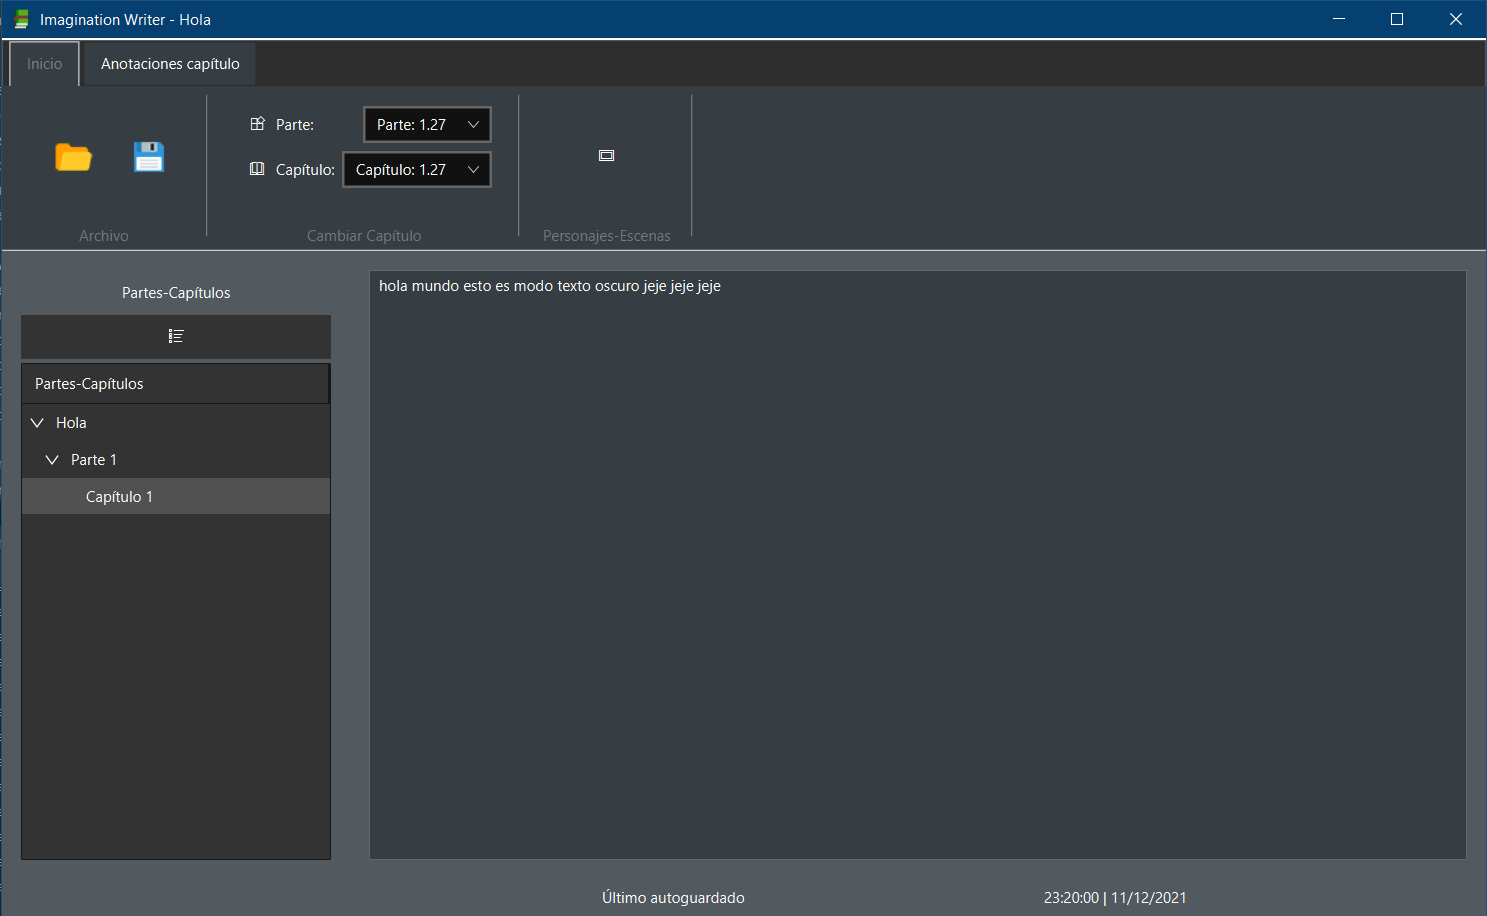
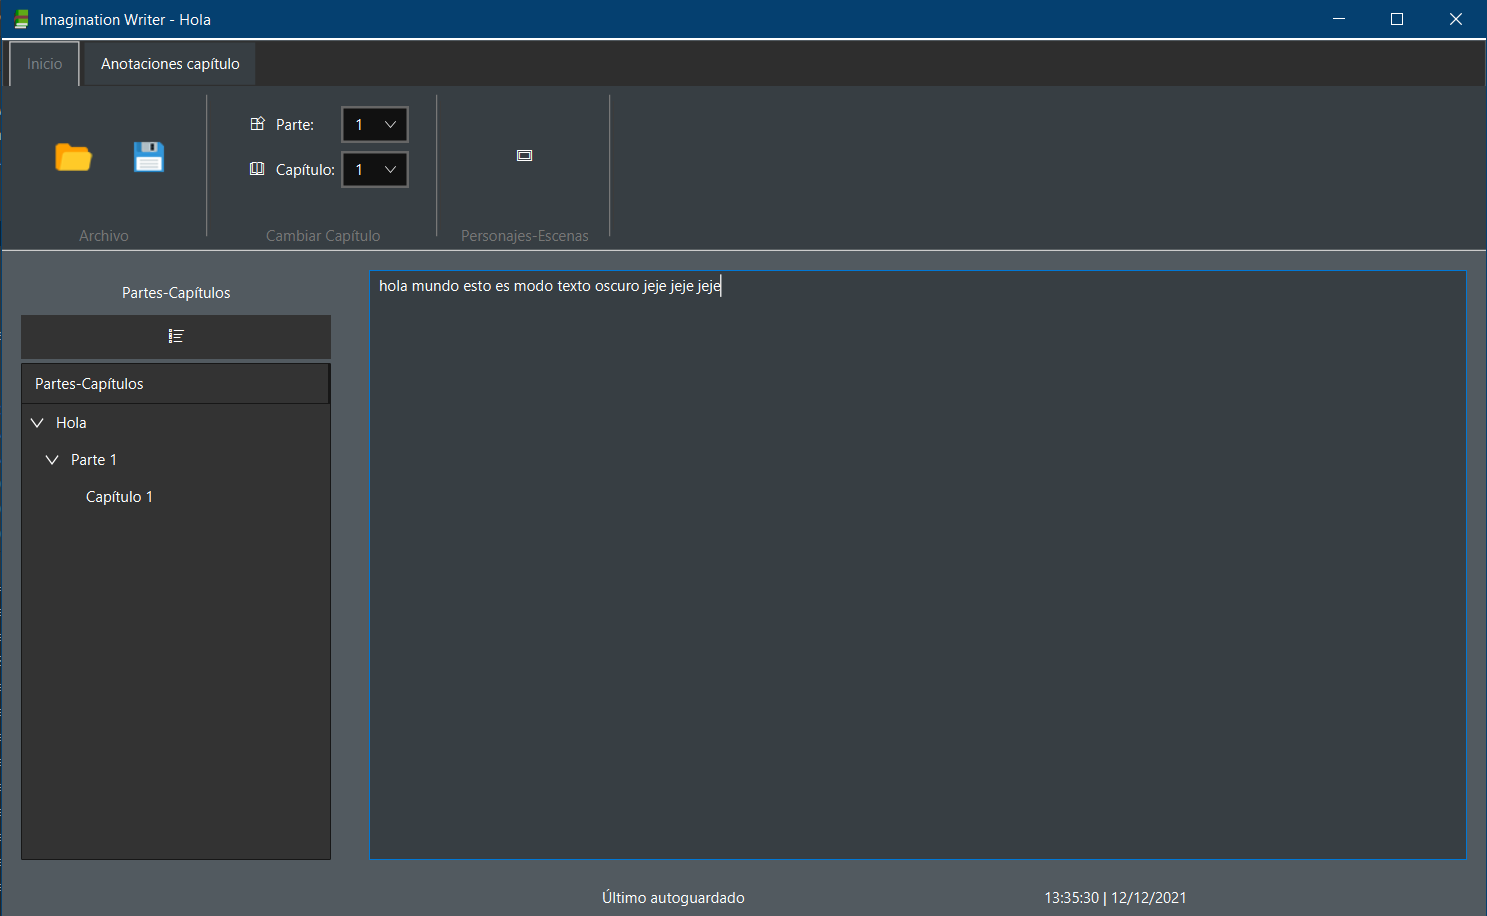
Añadida captura de Registrarse/Ver/Editar Perfil. Arreglos menores en la vista de Editar Libro. Diálogos ahora con interfaz Metro también. Ahora funciona completo el CRUD de partes y capítulos.

diff --git a/src/main/java/com/IW/controllers/BookPartsController.java b/src/main/java/com/IW/controllers/BookPartsController.java
@@ -3,8 +3,8 @@ package com.IW.controllers;
 import com.IW.interfaces.IBeans.IChapter;
 import com.IW.interfaces.IBeans.IPart;
 import com.IW.model.dao.BookDAO;
+import com.IW.model.dao.ChapterDAO;
 import com.IW.model.dao.PartDAO;
-import com.IW.model.objects.Part;
 import com.IW.utils.Dialog;
 import com.IW.utils.Tools;
 import javafx.beans.property.SimpleStringProperty;
@@ -40,6 +40,8 @@ public class BookPartsController {
     private Button btn_remove_chapter;
     private static BookDAO current_book;
     private static PartDAO current_part;
+    private static ChapterDAO current_chapter;
+
     //TODO todavía por terminar
     @FXML
     protected void initialize() {
@@ -70,18 +72,38 @@ public class BookPartsController {
             table_parts.getItems().remove(current_part);
         });
         btn_add_chapter.setOnAction(event -> {
-
+            if (current_part != null) {
+                ChapterDAO c = new ChapterDAO();
+                c.setNPage(Dialog.showDialogPart_Chapter("Nuevo capítulo", "", ""));
+                if (c.getNPage() != -1 && c.getNPage() != 0) {
+                    c.persist();
+                    current_part.getChapters().add(c);
+                    current_part.persist();
+                    current_book.persist();
+                    table_chapters.getItems().add(c);
+                }
+            } else {
+                Dialog.showWarning("¡Error!", "Selecciona una parte antes!", "No puedes añadir capítulos si no has seleccionado una parte antes previamente");
+            }
         });
         btn_edit_chapter.setOnAction(event -> {
-
+            current_chapter.setNPage(Dialog.showDialogPart_Chapter("Nuevo capítulo", "Introduce el número del nuevo capítulo", ""));
+            if (current_chapter.getNPage() != -1 && current_chapter.getNPage() != 0) {
+                table_chapters.getItems().remove(current_chapter);
+                current_chapter.persist();
+                current_book.persist();
+                table_chapters.getItems().add(current_chapter);
+            }
         });
         btn_remove_chapter.setOnAction(event -> {
-
+            current_chapter.remove();
+            table_chapters.getItems().remove(current_chapter);
         });
     }
 
     private void configureTables() {
-        tc_parts.setCellValueFactory(eachPart -> new SimpleStringProperty(eachPart.getValue().getNPart() + ""));
+        tc_parts.setCellValueFactory(eachPart -> new SimpleStringProperty("Capítulo: " + eachPart.getValue().getNPart()));
+        tc_chapters.setCellValueFactory(eachChapter -> new SimpleStringProperty("Parte: " + eachChapter.getValue().getNPage() + ""));
         table_parts.getSelectionModel().selectedItemProperty().addListener((observable, oldValue, newValue) -> {
             if (newValue != null) {
                 if (btn_add_chapter.isDisabled() && btn_edit_part.isDisabled() && btn_remove_part.isDisabled()) {
@@ -99,15 +121,15 @@ public class BookPartsController {
                     btn_edit_chapter.setDisable(false);
                     btn_remove_chapter.setDisable(false);
                 }
+                current_chapter = new ChapterDAO(newValue.getId());
             }
         });
-        tc_chapters.setCellValueFactory(eachChapter -> new SimpleStringProperty(eachChapter.getValue().getNPage() + ""));
     }
 
     public static void setCurrent_book(BookDAO book) {
         current_book = book;
         book.getParts().removeIf(Objects::isNull);
-        for(IPart p: book.getParts()){
+        for (IPart p : book.getParts()) {
             p.getChapters().removeIf(Objects::isNull);
         }
     }

diff --git a/src/main/java/com/IW/utils/Dialog.java b/src/main/java/com/IW/utils/Dialog.java
@@ -8,6 +8,8 @@ import javafx.print.PrinterJob;
 import javafx.scene.control.*;
 import javafx.scene.layout.GridPane;
 import javafx.stage.Stage;
+import jfxtras.styles.jmetro.JMetro;
+import jfxtras.styles.jmetro.Style;
 
 import java.util.Objects;
 import java.util.Optional;
@@ -35,6 +37,7 @@ public class Dialog {
     private static void showDialog(Alert.AlertType type, String title, String header, String description) {
         Alert alert = new Alert(type);
         Tools.addCssAndIcon((Stage) alert.getDialogPane().getScene().getWindow());
+        new JMetro(Style.DARK).setScene(alert.getDialogPane().getScene());
         alert.setTitle(title);
         alert.setHeaderText(header);
         alert.setContentText(description);
@@ -44,6 +47,7 @@ public class Dialog {
     private static boolean showDialogBoolean(String title, String header, String description) {
         Alert alert = new Alert(Alert.AlertType.CONFIRMATION);
         Tools.addCssAndIcon((Stage) alert.getDialogPane().getScene().getWindow());
+        new JMetro(Style.DARK).setScene(alert.getDialogPane().getScene());
         alert.setTitle(title);
         alert.setHeaderText(header);
         alert.setContentText(description);
@@ -62,6 +66,7 @@ public class Dialog {
     public static String showDialogString(String title, String header, String description) {
         TextInputDialog dialog = new TextInputDialog("");
         Tools.addCssAndIcon((Stage) dialog.getDialogPane().getScene().getWindow());
+        new JMetro(Style.DARK).setScene(dialog.getDialogPane().getScene());
         dialog.setTitle(title);
         dialog.setHeaderText(header);
         dialog.setContentText(description);
@@ -80,6 +85,7 @@ public class Dialog {
     public static int showDialogPart_Chapter(String title, String header, String description) {
         TextInputDialog dialog = new TextInputDialog();
         Tools.addCssAndIcon((Stage) dialog.getDialogPane().getScene().getWindow());
+        new JMetro(Style.DARK).setScene(dialog.getDialogPane().getScene());
         Tools.onlyDoubleValue(dialog.getEditor());
         dialog.setTitle(title);
         dialog.setHeaderText(header);
@@ -99,6 +105,7 @@ public class Dialog {
     public static String showDialogExamine(String title, String header, String description) {
         Alert dialog = new Alert(Alert.AlertType.CONFIRMATION);
         Tools.addCssAndIcon((Stage) dialog.getDialogPane().getScene().getWindow());
+        new JMetro(Style.DARK).setScene(dialog.getDialogPane().getScene());
         dialog.setTitle(title);
         dialog.setHeaderText(header);
         dialog.setContentText(description);
@@ -125,6 +132,7 @@ public class Dialog {
     public static void printDialog(IBook bookToPrint) {
         ChoiceDialog dialog = new ChoiceDialog(Printer.getDefaultPrinter(), Printer.getAllPrinters());
         Tools.addCssAndIcon((Stage) dialog.getDialogPane().getScene().getWindow());
+        new JMetro(Style.DARK).setScene(dialog.getDialogPane().getScene());
         dialog.setTitle("Selección de impresora");
         dialog.setHeaderText("Elige una impresora");
         dialog.setContentText("¡Elige una impresora que imprima en PDF!");

diff --git a/src/main/java/com/IW/controllers/EditorController.java b/src/main/java/com/IW/controllers/EditorController.java
@@ -15,11 +15,9 @@ import javafx.collections.FXCollections;
 import javafx.fxml.FXML;
 import javafx.scene.control.*;
 import javafx.stage.Stage;
-import javafx.util.StringConverter;
 
 import java.time.LocalDateTime;
 import java.time.format.DateTimeFormatter;
-import java.util.ArrayList;
 import java.util.Objects;
 import java.util.Timer;
 import java.util.TimerTask;
@@ -154,38 +152,6 @@ public class EditorController {
                 ta_note_chapter.setText(current_chapter.getNote());
                 ta_resume_chapter.setText(current_chapter.getResume());
                 ta_chapter.setText(current_chapter.getText());
-            }
-        });
-        cb_parts.setConverter(new StringConverter<>() {
-            @Override
-            public String toString(IPart object) {
-                return object == null ? null : object.toCombobox();
-            }
-
-            @Override
-            public IPart fromString(String string) {
-                IPart p = null;
-                if (string != null) {
-                    long id = Long.parseLong(string.substring(string.lastIndexOf(".")));
-                    p = new PartDAO(id);
-                }
-                return p;
-            }
-        });
-        cb_chapters.setConverter(new StringConverter<>() {
-            @Override
-            public String toString(IChapter object) {
-                return object == null ? null : object.toCombobox();
-            }
-
-            @Override
-            public IChapter fromString(String string) {
-                IChapter c = null;
-                if (string != null) {
-                    long id = Long.parseLong(string.substring(string.lastIndexOf(".")));
-                    c = new ChapterDAO(id);
-                }
-                return c;
             }
         });
     }

diff --git a/src/main/java/com/IW/controllers/BooksController.java b/src/main/java/com/IW/controllers/BooksController.java
@@ -8,6 +8,7 @@ import com.IW.model.dao.BookDAO;
 import com.IW.utils.Dialog;
 import com.IW.utils.PersistenceUnit;
 import com.IW.utils.Tools;
+import javafx.application.Platform;
 import javafx.beans.property.SimpleStringProperty;
 import javafx.collections.FXCollections;
 import javafx.event.ActionEvent;
@@ -166,6 +167,7 @@ public class BooksController {
                 Dialog.printDialog(table_books.getSelectionModel().getSelectedItem());
             }
         });
+        Platform.runLater(() -> btn_print.getScene().getWindow().setOnCloseRequest(event -> mi_close_session.fire()));
         configureTableColumns();
         addTableBookButtons();
         setIcons();

diff --git a/src/main/java/com/IW/interfaces/IBeans.java b/src/main/java/com/IW/interfaces/IBeans.java
@@ -53,7 +53,6 @@ public interface IBeans {
         String getResume();
         String getNote();
         String getText();
-        String toCombobox();
     }
 
     interface ICharacter{
@@ -94,6 +93,5 @@ public interface IBeans {
         int getNPart();
         List<IChapter> getChapters();
         IBook getBook();
-        String toCombobox();
     }
 }

diff --git a/src/main/java/com/IW/model/objects/Chapter.java b/src/main/java/com/IW/model/objects/Chapter.java
@@ -102,8 +102,8 @@ public class Chapter implements Serializable, IChapter {
     }
 
     @Override
-    public String toCombobox() {
-        return "Capítulo: " + this.nPage + "." + this.id;
+    public String toString() {
+        return this.nPage+"";
     }
 
     @Override

diff --git a/src/main/java/com/IW/model/objects/Part.java b/src/main/java/com/IW/model/objects/Part.java
@@ -88,8 +88,8 @@ public class Part implements Serializable, IPart {
     }
 
     @Override
-    public String toCombobox() {
-        return "Parte: " + this.nPart + "." + this.id;
+    public String toString() {
+        return this.nPart+"";
     }
 
     @Override

diff --git a/Readme.MD b/Readme.MD
@@ -1,4 +1,4 @@
-# ¡EarthSound App!
+# ¡Imagination Writer App!
 
 ## What do you need?
 You only need Java [JDK 17](https://www.oracle.com/java/technologies/javase/jdk17-archive-downloads.html)
@@ -33,13 +33,16 @@ Is under ImaginationWriter/src/main/resources/META-INF/persistence.xml
 
 Touch only MariaDB configuration (ApplicationMariaDB persistence-unit)
 
-1. javax.persistence.jdbc.url -> To specify remote MariaDB url(put the name of the database after last "/")
-2. javax.persistence.jdbc.user -> User database that can modify data
-3. javax.persistence.jdbc.password -> Password of the userdatabase
+1. javax.persistence.jdbc.url ➡ To specify remote MariaDB url(put the name of the database after last "/")
+2. javax.persistence.jdbc.user ➡ User database that can modify data
+3. javax.persistence.jdbc.password ➡ Password of the userdatabase
 
 ## ScreenShots
 ### Login
 <img height="322" src="https://raw.githubusercontent.com/Varo95/ImaginationWriter/master/screenshots/Login.png" width="421"/>
+
+### Register-Edit Profile
+<img height="442" src="https://raw.githubusercontent.com/Varo95/ImaginationWriter/master/screenshots/Profile-Editor.png" width="437"/>
 
 ### Books View
 <img height="577" src="https://raw.githubusercontent.com/Varo95/ImaginationWriter/master/screenshots/Books.png" width="665"/>
